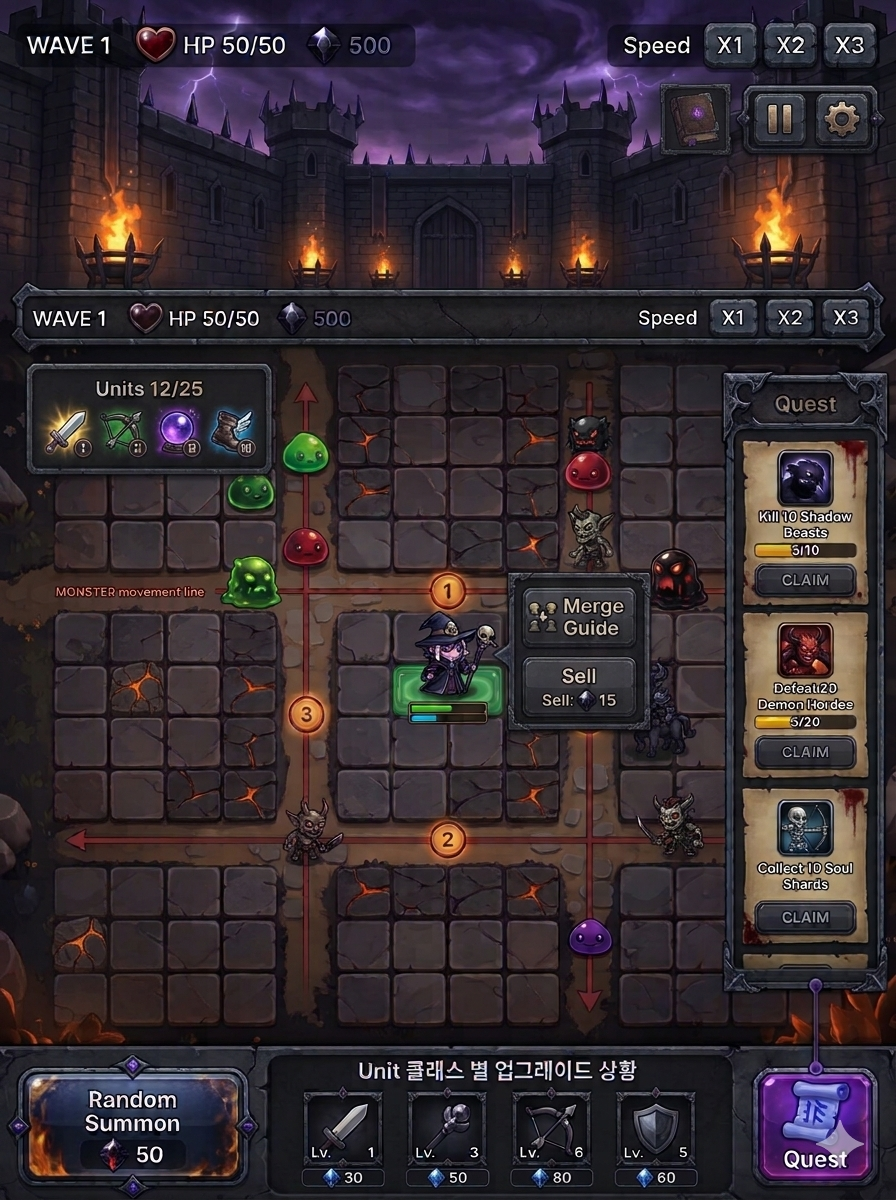
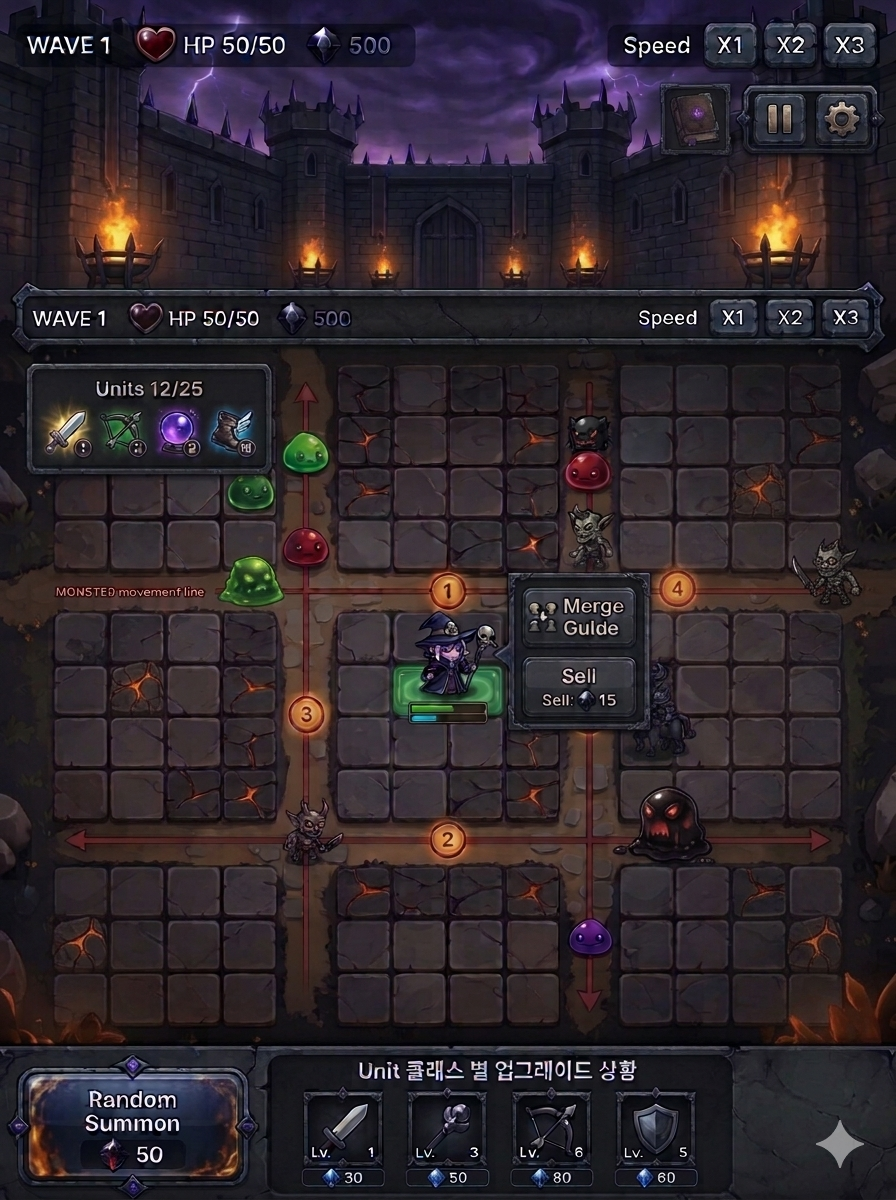
게임 기획 수정1
퀘스트 부분을 삭제하였습니다.

diff --git a/docs/design/이미지 초안 설계.md b/docs/design/이미지 초안 설계.md
@@ -31,9 +31,7 @@
   * 필드의 특정 유닛 선택 시 우측에 컨텍스트 메뉴 출력
   * **Merge Guide:** 상위 등급 유닛으로 합성하기 위한 조합 가이드 및 즉시 합성 기능
   * **Sell:** 해당 유닛을 판매하고 일정량의 재화(`Sell: 15`)를 회수하는 버튼
-* **퀘스트 슬라이드 패널 (우측 사이드바):**
-  * 우측 하단 `Quest` 버튼 클릭 시 펼쳐지는 반투명 사이드 창
-  * 진행 중인 미션 목록(예: *Kill 10 Shadow Beasts*, *Defeat 20 Demon Hordes*)과 진행도 게이지(`5/10`), 보상 수령(`CLAIM`) 버튼 제공
+
 
 ### 2.3. 하단 액션 및 강화 영역 (Bottom Control Panel)
 * **Random Summon (좌측):**
@@ -41,8 +39,7 @@
 * **Unit 클래스 별 업그레이드 상황 (중앙):**
   * 4가지 주요 클래스(검, 지팡이, 활, 방패)의 현재 강화 레벨(`Lv. 1`, `Lv. 3`, `Lv. 6`, `Lv. 5`) 표시
   * 각 버튼 하단에 다음 레벨 업그레이드에 필요한 재화 비용(`30`, `50`, `80`, `60`)을 명시하여 직관적인 자원 관리 유도
-* **Quest 토글 버튼 (우측):**
-  * 우측 퀘스트 패널을 열거나 닫는 전용 스위치 버튼
+
 
 ---
 

diff --git a/docs/design/디펜스-게임기획.md b/docs/design/디펜스-게임기획.md
@@ -63,7 +63,7 @@
 ### 4.1. 플레이어 및 몬스터 기본 규칙
 * **플레이어 HP:** 50
 * **피해 규칙:** 몬스터 1마리가 결승점에 도달할 때마다 플레이어 HP가 **1씩 감소** (몬스터 종류와 무관하게 1 고정)
-* **몬스터 종류 (총 10종):** 일반형, 고속 이동형, 고체력(탱커)형, 물리/마법 저항형, 보스형 등 10가지 개체로 구성하여 웨이브마다 조합 출현
+* **몬스터 종류 (총 10종):** 일반형, 고속 이동형, 고체력(탱커)형, 보스형 등 10가지 개체로 구성하여 웨이브마다 조합 출현
 
 ### 4.2. 웨이브 스케일링 (난이도 상승 곡선)
 웨이브가 진행됨에 따라 몬스터의 물량이 먼저 증가하고, 물량이 최대치에 도달하면 체력이 무한히 증가합니다.

diff --git a/README.md b/README.md
@@ -13,9 +13,8 @@
 | 문서 | 설명 |
 |---|---|
 | [docs/engine-guide.md](docs/engine-guide.md) | 엔진 v0.2.0 가이드. 루프 순서, API, 좌표계, 프레임 속도, 입력 규칙, 제약 |
-| [docs/디펜스-게임기획.md](docs/디펜스-게임기획.md) | 게임 기획 설명서 |
+| [docs/design/디펜스-게임기획.md](docs/design/디펜스-게임기획.md) | 게임 기획 설명서 |
 | [시스템](src/Game.md) |  게임 시스템 및 구현 기능 안내 |
-
 
 
 ## 3. 파일 구조
